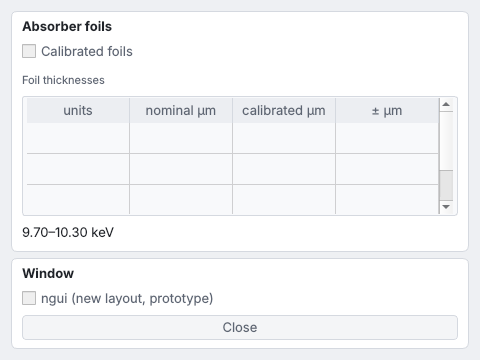
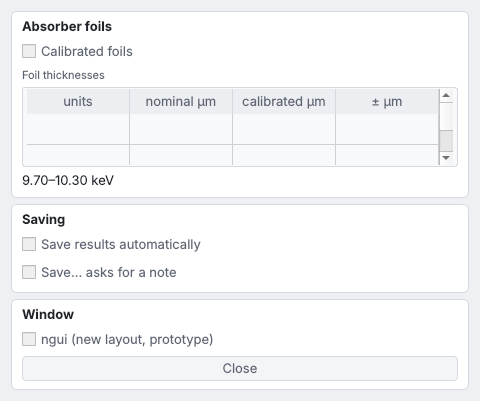
ngui: keep the automatic-save switch and the note question as settings
The prototype had retired prefAutoSaveCheckBox and prefSaveNoteCheckBox as
made unnecessary by D61. The owner asked for automatic saving and a Save...
with a note, not for removing the off switch or the note question, so both
stay, in ngui's Preferences under "Saving", until the owner says otherwise.
40 ids retired, 364 placed. Retired-list and Preferences screenshots
retaken.

Claude-Session: https://claude.ai/code/session_017UNj93eCQ98icFoDfMzdiH

diff --git a/ngui/layout.py b/ngui/layout.py
@@ -627,6 +627,12 @@ PREFERENCES = [
         C('prefFoilTable', 'Foil thicknesses'),
         C('prefFoilRangeLabel', '9.70–10.30 keV'),
     ]),
+    # kept (orchestrator, 2026-11-23): the owner asked for automatic saving and a Save… with a note (D61),
+    # not for removing the off switch or the note question; retiring them waits on the owner
+    G('Saving', '', [
+        C('prefAutoSaveCheckBox', 'Save results automatically', note='On by default (D56); off for quick looks'),
+        C('prefSaveNoteCheckBox', 'Save… asks for a note', note='Shift-click skips the question'),
+    ]),
     G('Window', '', [
         C('prefNguiCheckBox', 'ngui (new layout, prototype)', note='This window; unticking closes it'),
         C('prefClosePushButton', 'Close'),
@@ -698,10 +704,6 @@ RETIRED = {
     'mcamerge.okPushButton': 'Merge window; the Merge button acts at once: ' + INLINE,
     'mcamerge.cancelPushButton': 'Merge window; the Merge button acts at once: ' + INLINE,
     'plotscale.closePB': 'Plot Scale Setup, now Files > 1-D plot: ' + INLINE,
-    # saving is automatic (D56, D61); notes go with Save… or the provenance strip
-    'prefSaveNoteCheckBox': 'In ngui Save… always takes a note and automatic saves never ask (D61); a note can '
-                            'also be added from the provenance strip',
-    'prefAutoSaveCheckBox': 'Saving is always automatic in ngui (D61); nothing to switch',
     'refpatchsamescan.nextPushButton': 'One choice (Sum, Drop, Patch) applies to every identical pair; no stepping',
     # duplicates merged
     'cutFitNowPushButton': 'Duplicate of "Fit peaks" once the fit options are inline (Frames > Peak fit)',

diff --git a/docs/TODO.md b/docs/TODO.md
@@ -140,7 +140,7 @@ GUI overhaul (R4, D58; plan `docs/gui/README.md`), planning only until the owner
 | Faster log-scale plotting (outside the first deliverables) | F72 |
 | Residuals panel above every fit plot (about 15 % of the height, own scale, χ²/dof in the legend; can be hidden, hidden by default for now); for later | F74 |
 | Sample timeline tab (sh-scan thumbnails, sx moves, new samples from 'set sh 0', tensiometer, barrier, reduction thumbnails, note boxes): research first — **in progress** 2026-11-23 | F83 |
-| Prototype of the new layout, **ngui** (a sketch, off by default; Preferences > Layout): design `docs/gui/prototype.md`; **built** 2026-11-23: `ngui/` (layout table placing all 404 inventoried controls or retiring 42 with reasons, theme, window), `tests/test_ngui.py`, screenshots `docs/gui/prototype/screens/` (`tests/tools/ngui_screens.py`); next: the owner's reactions | F82 |
+| Prototype of the new layout, **ngui** (a sketch, off by default; Preferences > Layout): design `docs/gui/prototype.md`; **built** 2026-11-23: `ngui/` (layout table placing all 404 inventoried controls or retiring 40 with reasons, theme, window), `tests/test_ngui.py`, screenshots `docs/gui/prototype/screens/` (`tests/tools/ngui_screens.py`); next: the owner's reactions | F82 |
 | Phase 3: contextual GUIs by data type | F73, F60 |
 
 **Defects found by the GUI assessment (2026-11-22)**, to fix one per commit with its test when coding resumes (details in `docs/gui/assessment_a.md`, `assessment_b.md`, `image_display.md`; "seen" = in an offscreen window, "measured" = a number taken, "read" = code only):

diff --git a/docs/gui/prototype/screens/README.md b/docs/gui/prototype/screens/README.md
@@ -18,7 +18,7 @@ Made by `python tests/tools/ngui_screens.py` (do not edit by hand). The window i
 | [`08_retired_controls.png`](08_retired_controls.png) | Help > Retired controls: what the layout drops, with the reasons | 1100 × 700 |
 | [`09_file_export.png`](09_file_export.png) | File > Export…: the only route to exporting (D61) | 460 × 560 |
 | [`10_legacy_reflectivity.png`](10_legacy_reflectivity.png) | Reflectivity > Check frames…: the point-by-point path behind one button (question 13) | 560 × 520 |
-| [`11_preferences.png`](11_preferences.png) | File > Preferences…: what stays in the dialog | 480 × 360 |
+| [`11_preferences.png`](11_preferences.png) | File > Preferences…: what stays in the dialog | 480 × 401 |
 | [`20_left_selection_panel.png`](20_left_selection_panel.png) | Close-up: the selection panel (series, scans, frames with the display mode, background frames folded) | 250 × 823 |
 | [`21_left_scans.png`](21_left_scans.png) | Close-up: the Scans tab's left column, every group open | 336 × 803 |
 | [`22_left_frames.png`](22_left_frames.png) | Close-up: the Frames tab's left column, every group open | 322 × 902 |

diff --git a/docs/gui/prototype.md b/docs/gui/prototype.md
@@ -188,7 +188,7 @@ the main window, as its child, and closes with it; unticking closes it.
   its plots; the selection dock; menus; panes; status and state bar;
   File > Export… (D61: no Export buttons in the tabs); the Preferences that
   stay in their dialog; a `RETIRED` dict with reasons. All 404 inventoried
-  controls are placed once (362) or retired (42). Each result plot has its
+  controls are placed once (364) or retired (40; the two saving preferences were kept as settings by the orchestrator, since the owner did not ask to remove them). Each result plot has its
   provenance strip and one "Save…" button (today's Save, a version with a
   note; results are also saved automatically, D56). The Frames viewer has
   "Raw frames" (movie bar, metadata line, "Fixed in 2θ") and "Line cuts"
